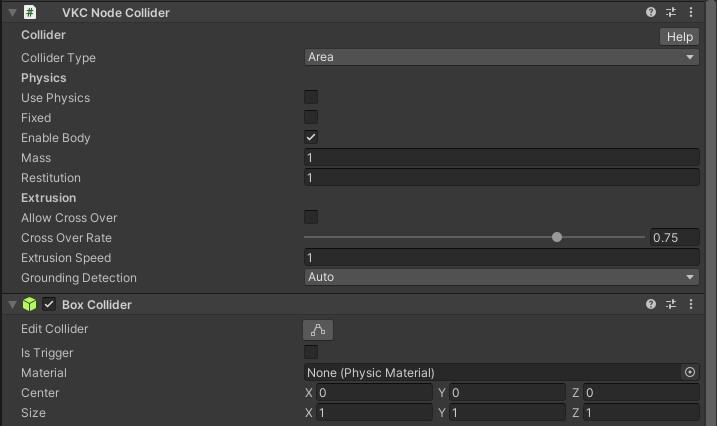
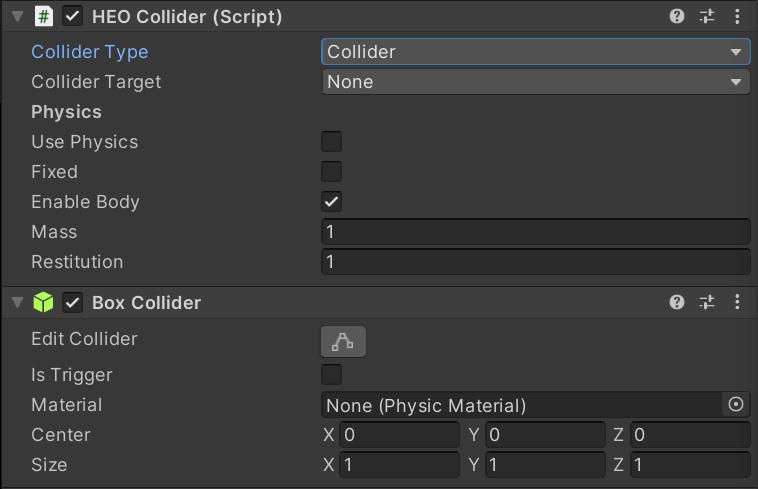
Revert "VKCItemAreaColliderの画像更新と複数項目追加"

diff --git a/docs/VKCComponents/VKCItemAreaCollider.en.md b/docs/VKCComponents/VKCItemAreaCollider.en.md
@@ -11,8 +11,8 @@ The [VKC Node Collider](./VKCNodeCollider.md) type must be set to Area.
 
 ![VKC Node Collider](img/HEOCollider_1.jpg)
 
-In each of Actions and LeaveActions, you can set any action by clicking +. <br>
-You can remove the selecting action by clicking -.
+In each of Actions and LeaveActions, you can set any action by clicking Add. <br>
+You can remove the last action by clicking Delete.
 
 | Label | Function |
 | ---- | ---- |
@@ -28,14 +28,3 @@ The collision / area range detection by collider will be done by obtaining the p
 Collision visualization can be toggled by enabling the [debug mode](../WorldEditingTips/DebugMode.md#f3-display-collision) on [VketCloudSettings / BasicSettings](../VketCloudSettings/BasicSettings.md) and pressing F3.
 
 ![VKCNodeCollider_2](img/HEOCollider_2.jpg)
-
-### Advanced Settings
-
-| Label | Function |
-| ---- | ---- |
-| Show | Toggles to change whether to display or not. |
-| Clickable | Toggles acceptance of click input from player |
-| Auto Loading | When enabled, this Item will be loaded automatically on world entrance.<br> As this Item must be explicitly loaded when `Auto Loading` is disabled, use [Dynamic Loading](VKCItemField.md) or use [Load()](../hs/hs_class_item.md#load) on HeliScript. |
-| Item Render Priority | Designates the Item's render priority. <br> For details, refer to [RenderingSettings / Priority List](../VketCloudSettings/RenderingSettings.md) |
-| Show Photo Mode | Toggles display/hide when in photo mode |
-

diff --git a/docs/changelog/changelog-13.4.ja.md b/docs/changelog/changelog-13.4.ja.md
@@ -1,14 +1,5 @@
 # SDK Manual Change Log - Ver 13.4
 
-## 2024年8月2日更新
-
-## 2024年8月2日 - 変更されたページ
-
-- VKCコンポーネント
-    - VKCItem
-        - [VKCItemAreaCollider](https://vrhikky.github.io/VketCloudSDK_Documents/13.4/VKCComponents/VKCItemAreaCollider.html)
-            - 説明文および画像を更新
-
 ## 2024年7月26日更新
 
 ## 2024年7月26日 - 変更されたページ

diff --git a/docs/changelog/changelog-13.4.en.md b/docs/changelog/changelog-13.4.en.md
@@ -1,14 +1,5 @@
 # SDK Manual Change Log - Ver 13.4
 
-## August 2 2024 Update
-
-## August 2 2024 - Edited Pages
-
-- VKC Components
-    - VKCItem
-        - [VKCItemAreaCollider](https://vrhikky.github.io/VketCloudSDK_Documents/13.4/en/VKCComponents/VKCItemAreaCollider.html)
-            - Updated descriptions and images.
-
 ## July 26 2024 Update
 
 ## July 26 2024 - Edited Pages
